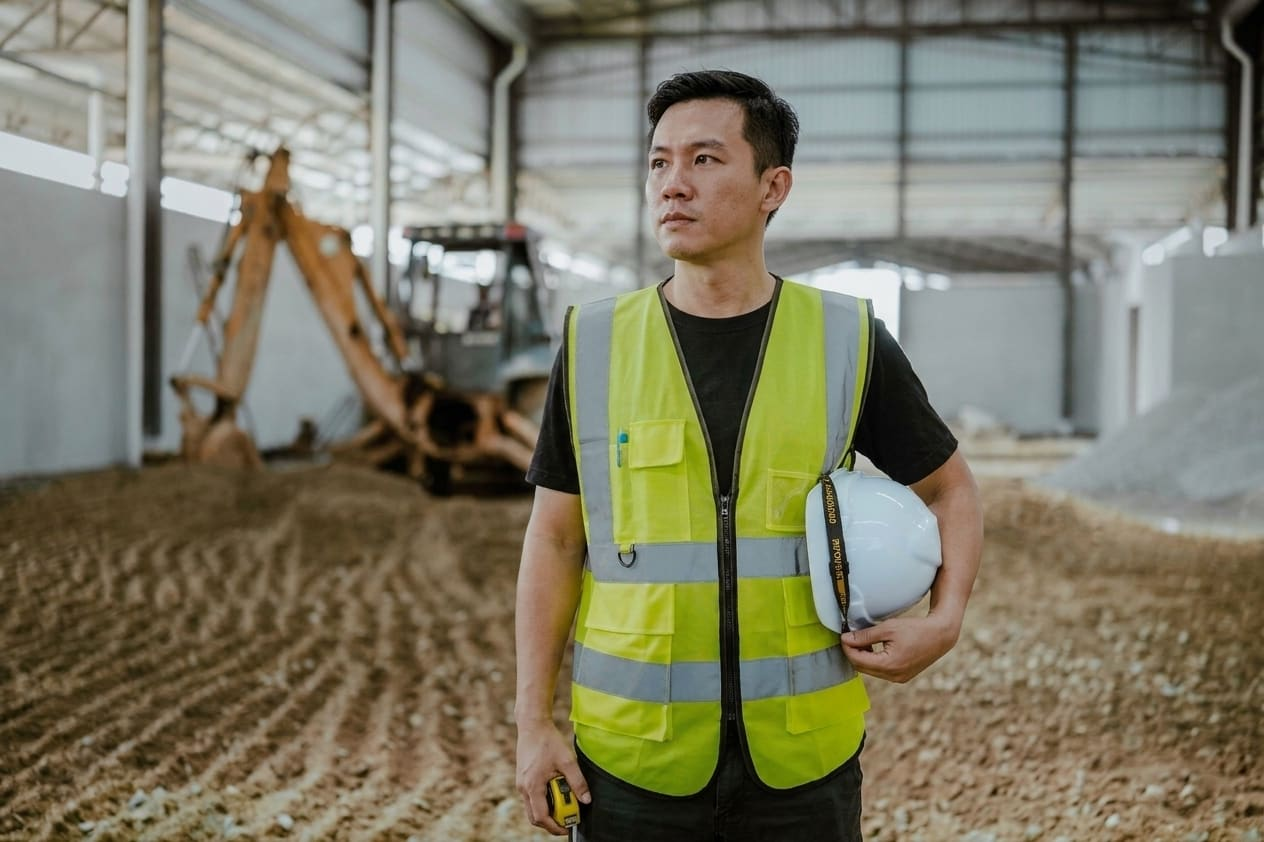
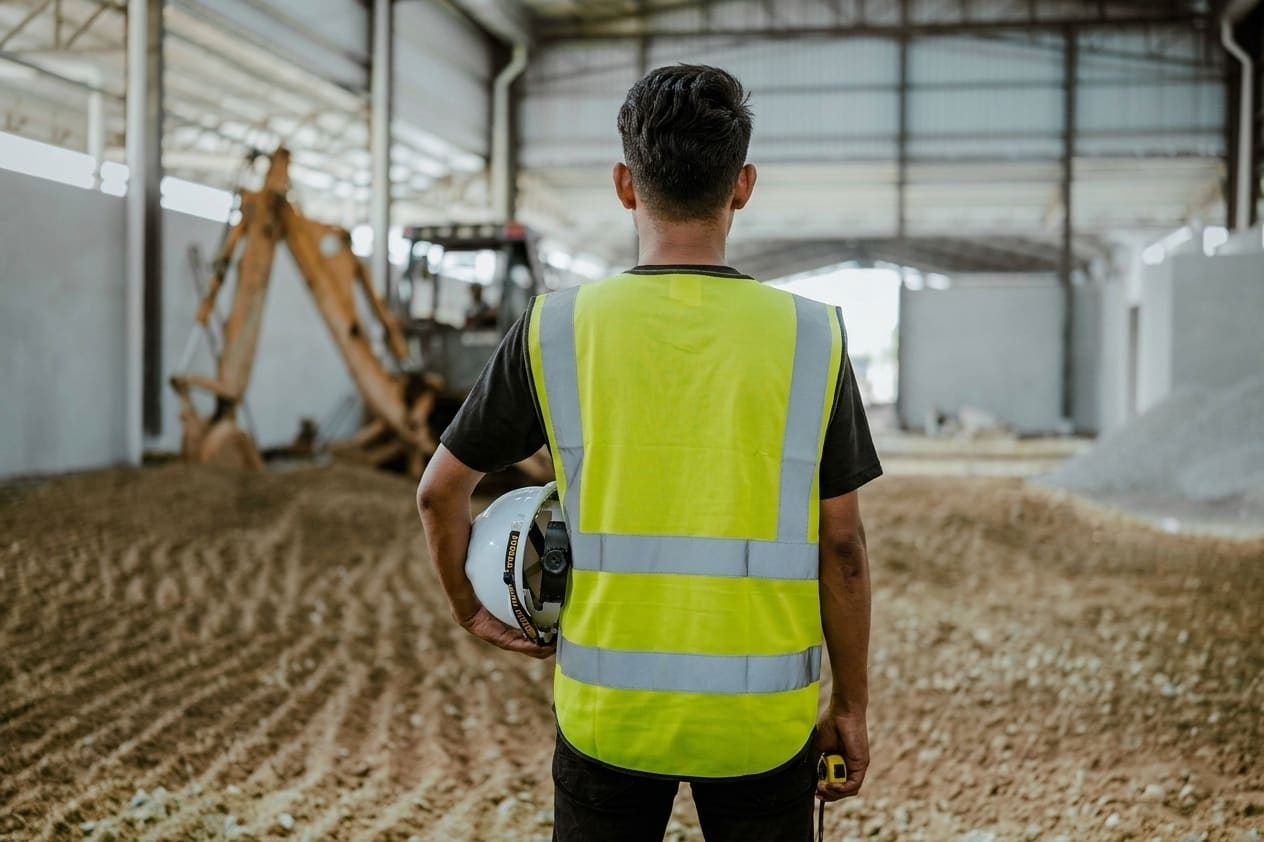
'upd'

diff --git a/components/contact-section.tsx b/components/contact-section.tsx
@@ -1,4 +1,4 @@
-import { CONTACT_EMAIL } from "@/lib/contact";
+import { CONTACT_EMAIL, GMAIL_COMPOSE_URL } from "@/lib/contact";
 import { ContactForm } from "./contact-form";
 import { Reveal } from "./reveal";
 import { Mail, MapPin, Phone, User } from "./icons";
@@ -20,7 +20,7 @@ const DETAILS = [
   {
     icon: Mail,
     label: "Email",
-    lines: [{ value: CONTACT_EMAIL, href: `mailto:${CONTACT_EMAIL}` }],
+    lines: [{ value: CONTACT_EMAIL, href: GMAIL_COMPOSE_URL }],
   },
   {
     icon: MapPin,
@@ -71,6 +71,12 @@ export function ContactSection() {
                         <a
                           key={line.value}
                           href={line.href}
+                          target={line.href.startsWith("http") ? "_blank" : undefined}
+                          rel={
+                            line.href.startsWith("http")
+                              ? "noopener noreferrer"
+                              : undefined
+                          }
                           className="block text-lg leading-snug font-semibold text-white break-words transition hover:text-brand"
                         >
                           {line.value}

diff --git a/components/site-footer.tsx b/components/site-footer.tsx
@@ -1,4 +1,4 @@
-import { CONTACT_EMAIL } from "@/lib/contact";
+import { CONTACT_EMAIL, GMAIL_COMPOSE_URL } from "@/lib/contact";
 import { LogoMark } from "./logo";
 
 const LINKS = [
@@ -78,7 +78,9 @@ export function SiteFooter() {
               </li>
               <li>
                 <a
-                  href={`mailto:${CONTACT_EMAIL}`}
+                  href={GMAIL_COMPOSE_URL}
+                  target="_blank"
+                  rel="noopener noreferrer"
                   className="break-words text-white/75 transition hover:text-brand"
                 >
                   {CONTACT_EMAIL}
